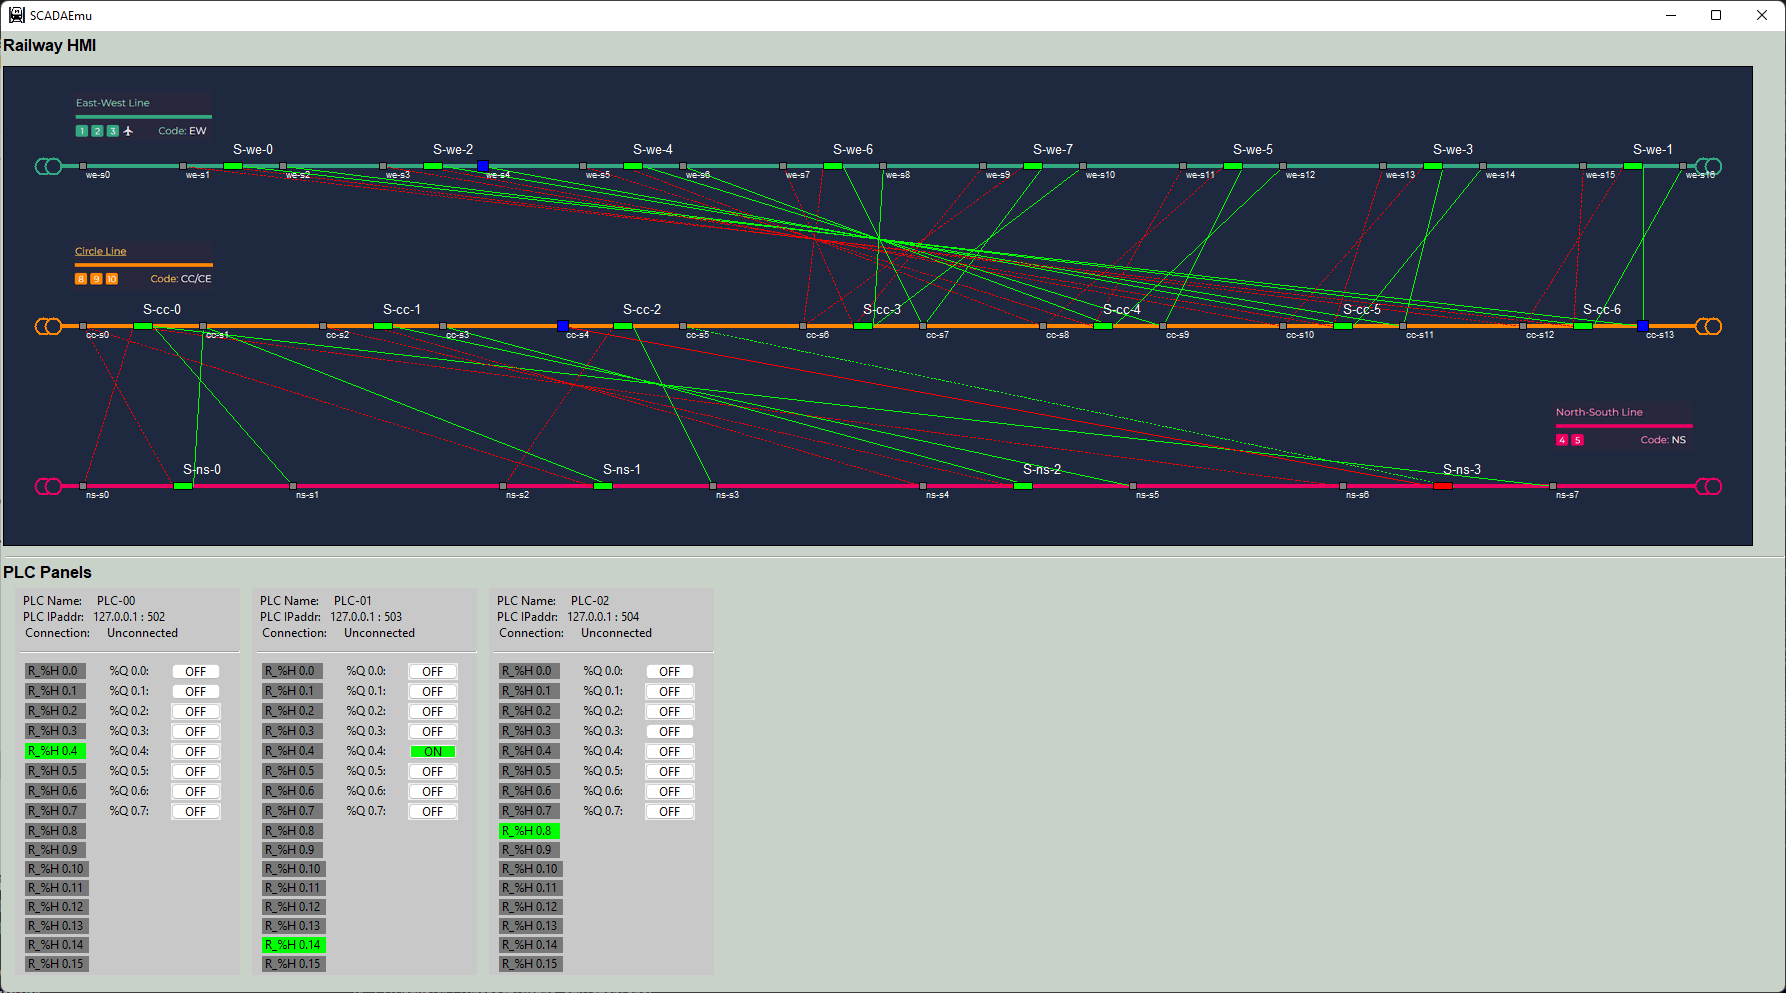
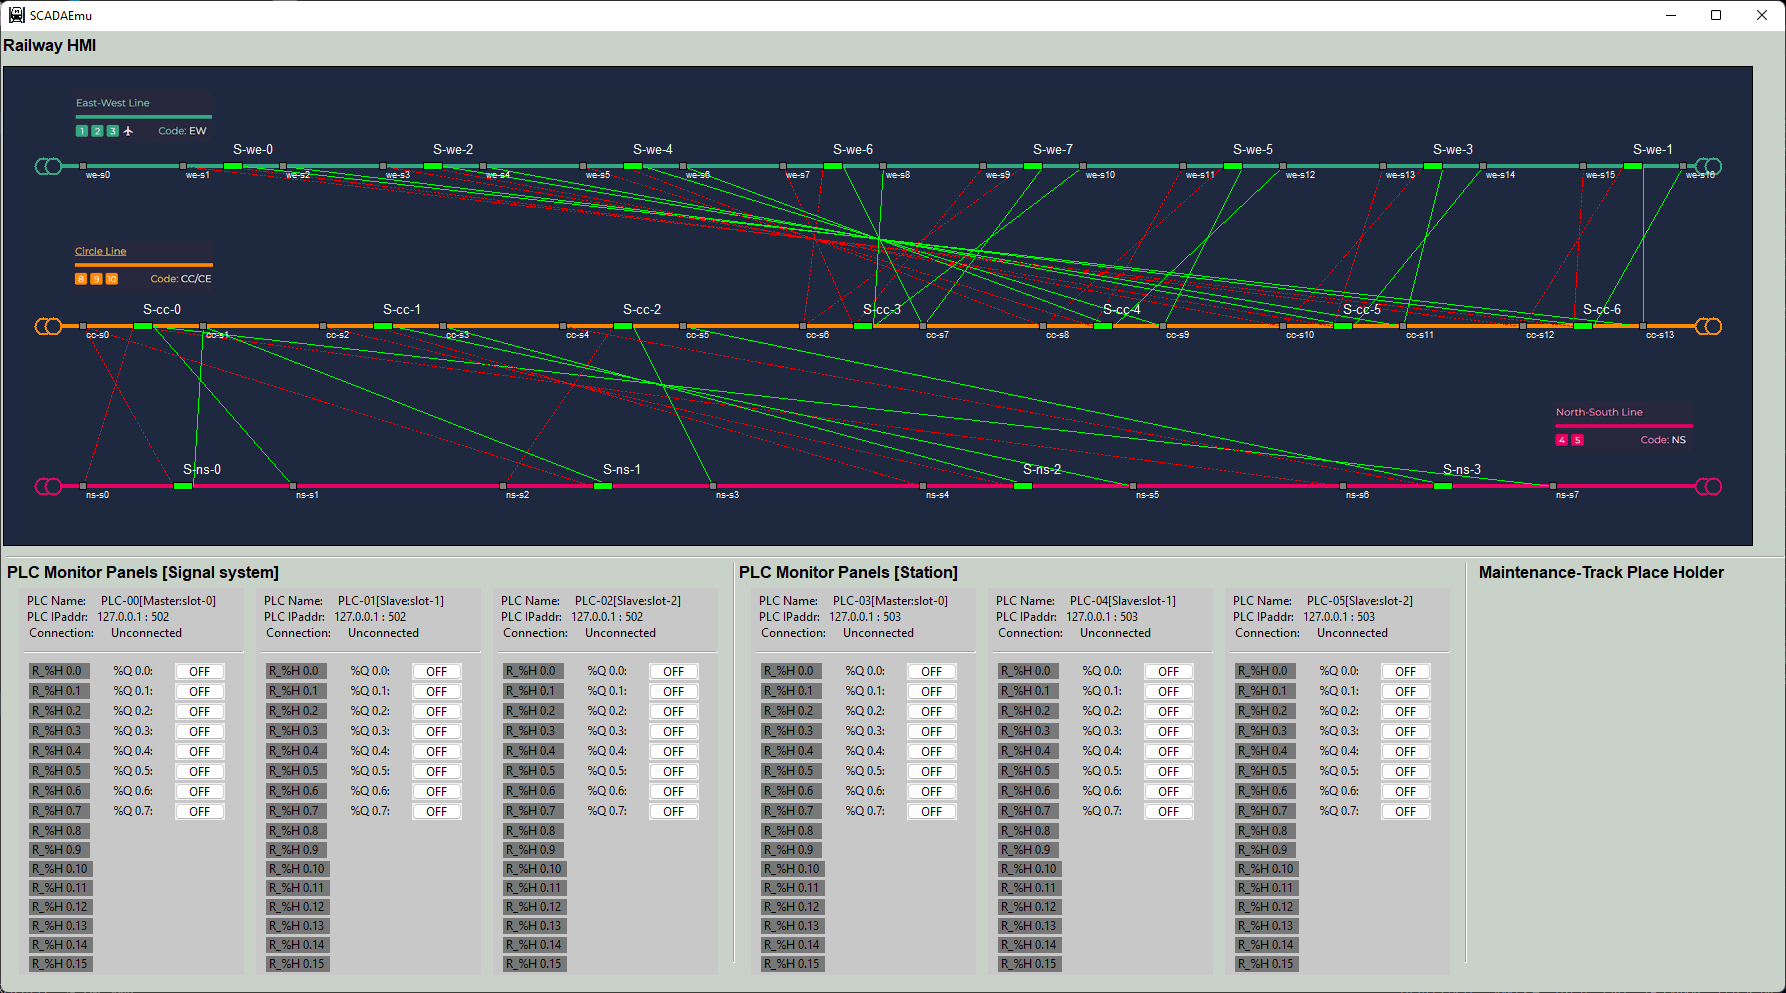
Changed the HMI main UI layout, added the station 3 PLC state display panel and the place holder panel for the maintenance track.

Changed region(s): [[0.0, 0.5619, 0.8007, 1.0], [0.7699, 0.999, 1.0, 1.0], [0.8315, 0.5619, 0.9546, 0.5932]]

diff --git a/src/scadaEmuUI/hmiEmuRun.py b/src/scadaEmuUI/hmiEmuRun.py
@@ -76,22 +76,60 @@ class UIFrame(wx.Frame):
                                 style=wx.LI_HORIZONTAL), flag=flagsL, border=5)
 
         mSizer.AddSpacer(5)
-        label2 = wx.StaticText(self, label="PLC Monitor Panels [Signal system]")
-        label2.SetFont(font)
-        mSizer.Add(label2, flag=flagsL, border=2)
-        mSizer.AddSpacer(5)
+        # label2 = wx.StaticText(self, label="PLC Monitor Panels [Signal system]")
+        # label2.SetFont(font)
+        # mSizer.Add(label2, flag=flagsL, border=2)
+        # mSizer.AddSpacer(5)
 
         hbox1 = wx.BoxSizer(wx.HORIZONTAL)
         self.plcPnls = {}
-        for key, val in gv.gPlcPnlInfo.items():
-            hbox1.AddSpacer(10)
-            ipaddr = val['ipaddress'] + ' : ' + str(val['port'])
-            self.plcPnls[key] = pnlFunction.PanelPLC(self, val['label'], ipaddr)
-            hbox1.Add(self.plcPnls[key], flag=flagsL, border=2)
+
+        signalSz = self._buildPlcPnlsSizer("PLC Monitor Panels [Signal system]", ('PLC-00', 'PLC-01', 'PLC-02'))
+        hbox1.Add(signalSz, flag=flagsL, border=2)
+        hbox1.AddSpacer(10)
+        hbox1.Add(wx.StaticLine(self, wx.ID_ANY, size=(-1, 400),
+                                style=wx.LI_VERTICAL), flag=flagsL, border=5)
+
+        stationSZ = self._buildPlcPnlsSizer("PLC Monitor Panels [Station]", ('PLC-03', 'PLC-04', 'PLC-05'))
+        hbox1.Add(stationSZ, flag=flagsL, border=2)
+        hbox1.AddSpacer(10)
+        hbox1.Add(wx.StaticLine(self, wx.ID_ANY, size=(-1, 400),
+                        style=wx.LI_VERTICAL), flag=flagsL, border=5)
+        hbox1.AddSpacer(10)
+        label2 = wx.StaticText(self, label="Maintenance-Track Place Holder")
+        label2.SetFont(font)
+        hbox1.Add(label2, flag=flagsL, border=2)
+
+        # for key, val in gv.gPlcPnlInfo.items():
+        #     hbox1.AddSpacer(10)
+        #     ipaddr = val['ipaddress'] + ' : ' + str(val['port'])
+        #     self.plcPnls[key] = pnlFunction.PanelPLC(self, val['label'], ipaddr)
+        #     hbox1.Add(self.plcPnls[key], flag=flagsL, border=2)
         
         mSizer.Add(hbox1, flag=flagsL, border=2)
         return mSizer
 
+#--UIFrame---------------------------------------------------------------------
+    def _buildPlcPnlsSizer(self, PanelTitle, panelKeySeq):
+        flagsL = wx.LEFT
+        font = wx.Font(12, wx.DECORATIVE, wx.BOLD, wx.BOLD)
+        vSizer = wx.BoxSizer(wx.VERTICAL)
+        label = wx.StaticText(self, label=PanelTitle)
+        label.SetFont(font)
+        vSizer.Add(label, flag=flagsL, border=2)
+        vSizer.AddSpacer(5)
+        hbox1 = wx.BoxSizer(wx.HORIZONTAL)
+        #panelSeq = ('PLC-00', 'PLC-01', 'PLC-02')
+        for key in panelKeySeq:
+            hbox1.AddSpacer(10)
+            panelInfo = gv.gPlcPnlInfo[key]
+            ipaddr = panelInfo['ipaddress'] + ' : ' + str(panelInfo['port'])
+            self.plcPnls[key] = pnlFunction.PanelPLC(self, panelInfo['label'], ipaddr)
+            hbox1.Add(self.plcPnls[key], flag=flagsL, border=2)
+        
+        vSizer.Add(hbox1, flag=flagsL, border=2)
+        return vSizer
+        
 #--UIFrame---------------------------------------------------------------------
     def periodic(self, event):
         """ Call back every periodic time."""
@@ -115,6 +153,7 @@ class UIFrame(wx.Frame):
                     self.plcPnls[key].updateCoils(coilsList)
                     self.plcPnls[key].updateDisplay()
                 
+                # update all the junction sensor and signals
                 for key in gv.gTrackConfig.keys():
                     tgtPlcID = 'PLC-00'
                     rsIdx, reIdx = gv.gTrackConfig[key]['sensorIdx']
@@ -125,6 +164,7 @@ class UIFrame(wx.Frame):
                     coilsList = gv.idataMgr.getPlcCoilsData(tgtPlcID, csIdx, ceIdx)
                     gv.iMapMgr.setSingals(key, coilsList)
 
+                # update all the station sensros and signals
 
             self.mapPanel.periodic(now)
 

diff --git a/src/scadaEmuUI/scadaGobal.py b/src/scadaEmuUI/scadaGobal.py
@@ -81,14 +81,26 @@ gPlcInfo = OrderedDict()
 gPlcInfo['PLC-00'] = {'id': 'PLC-00', 'ipaddress': '127.0.0.1',
                       'port': 502, 'hRegsInfo': (0, 39), 'coilsInfo': (0, 19)}
 
+gPlcInfo['PLC-03'] = {'id': 'PLC-03', 'ipaddress': '127.0.0.1',
+                      'port': 503, 'hRegsInfo': (0, 22), 'coilsInfo': (0, 22)}
+
 # PLC display panel information.
 gPlcPnlInfo = OrderedDict()
+
+# init junction Plcs
 gPlcPnlInfo['PLC-00'] = {'id': 'PLC-00', 'label': 'PLC-00[Master:slot-0]', 'ipaddress': '127.0.0.1',
                          'port': 502, 'tgt': 'PLC-00', 'hRegsInfo': (0, 15), 'coilsInfo': (0, 7)}
 gPlcPnlInfo['PLC-01'] = {'id': 'PLC-01', 'label': 'PLC-01[Slave:slot-1]', 'ipaddress': '127.0.0.1',
                          'port': 502, 'tgt': 'PLC-00', 'hRegsInfo': (15, 30), 'coilsInfo': (7, 14)}
 gPlcPnlInfo['PLC-02'] = {'id': 'PLC-02',  'label': 'PLC-02[Slave:slot-2]', 'ipaddress': '127.0.0.1',
                          'port': 502, 'tgt': 'PLC-00', 'hRegsInfo': (30, 39), 'coilsInfo': (14, 19)}
+# init station Plcs
+gPlcPnlInfo['PLC-03'] = {'id': 'PLC-03', 'label': 'PLC-03[Master:slot-0]', 'ipaddress': '127.0.0.1',
+                         'port': 503, 'tgt': 'PLC-03', 'hRegsInfo': (0, 8), 'coilsInfo': (0, 8)}
+gPlcPnlInfo['PLC-04'] = {'id': 'PLC-01', 'label': 'PLC-04[Slave:slot-1]', 'ipaddress': '127.0.0.1',
+                         'port': 503, 'tgt': 'PLC-03', 'hRegsInfo': (8, 16), 'coilsInfo': (8, 16)}
+gPlcPnlInfo['PLC-05'] = {'id': 'PLC-02', 'label': 'PLC-05[Slave:slot-2]', 'ipaddress': '127.0.0.1',
+                         'port': 503, 'tgt': 'PLC-03', 'hRegsInfo': (16, 22), 'coilsInfo': (16, 22)}
 
 gTranspPct = 70     # Windows transparent percentage.
 gUpdateRate = 1     # main frame update rate 1 sec.

diff --git a/src/scadaEmuUI/scadaDataMgr.py b/src/scadaEmuUI/scadaDataMgr.py
@@ -35,7 +35,7 @@ class DataManager(object):
             plcIpaddr = val['ipaddress']
             plcPort = val['port']
             self.plcClients[key] = modbusTcpCom.modbusTcpClient(plcIpaddr, tgtPort=plcPort)
-            if self.plcClients[key] .checkConn():
+            if self.plcClients[key].checkConn():
                 gv.gDebugPrint('DataManager: Connected to PLC', logType=gv.LOG_INFO)
             else:
                 gv.gDebugPrint('DataManager: Fail to connect to PLC', logType=gv.LOG_INFO)

diff --git a/src/plcCtrl/signalPlcEmu/plcSimGlobalSignal.py b/src/plcCtrl/signalPlcEmu/plcSimGlobalSignal.py
@@ -43,7 +43,7 @@ LOG_WARN    = 1
 LOG_ERR     = 2
 LOG_EXCEPT  = 3
 
-PCL_NAME = 'PLC1'
+PCL_NAME = 'PLC-01'
 ALLOW_R_L = ['127.0.0.1', '192.168.0.10']
 ALLOW_W_L = ['127.0.0.1']
 

diff --git a/src/plcCtrl/stationPlcEmu/plcSimGlobalStation.py b/src/plcCtrl/stationPlcEmu/plcSimGlobalStation.py
@@ -43,7 +43,7 @@ LOG_WARN    = 1
 LOG_ERR     = 2
 LOG_EXCEPT  = 3
 
-PCL_NAME = 'PLC4'
+PCL_NAME = 'PLC-03'
 ALLOW_R_L = ['127.0.0.1', '192.168.0.10']
 ALLOW_W_L = ['127.0.0.1']
 
